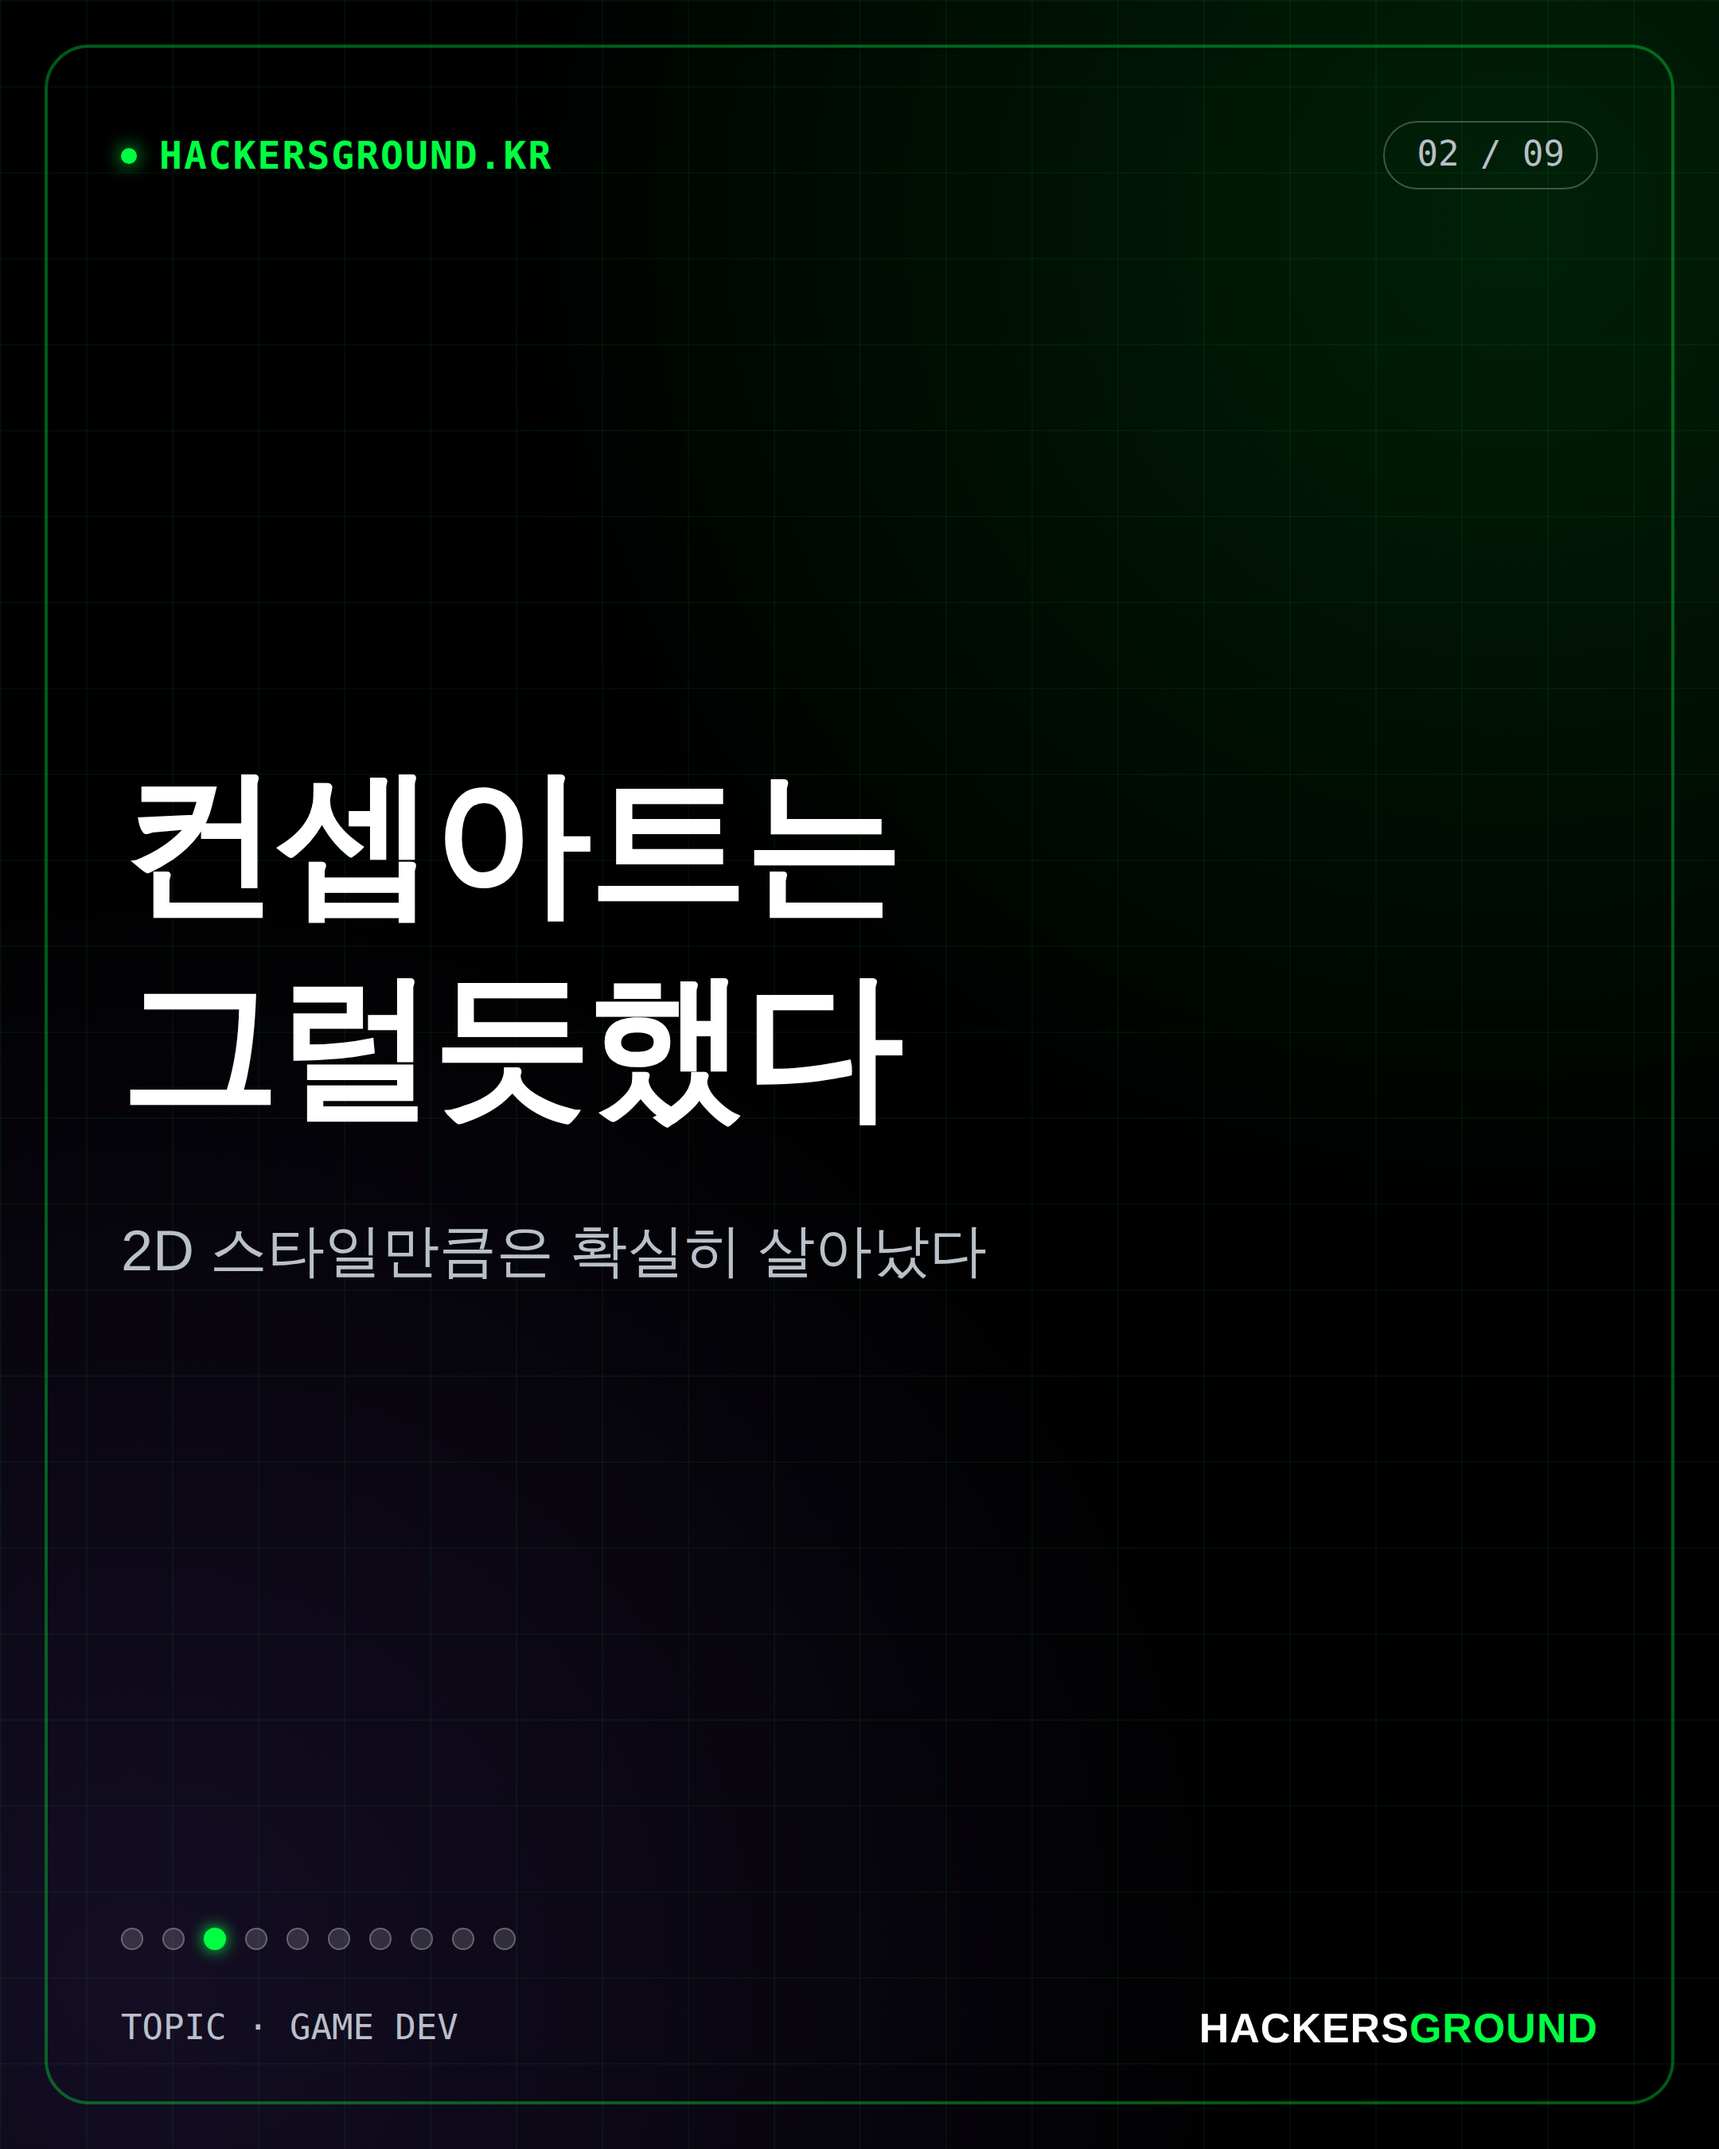
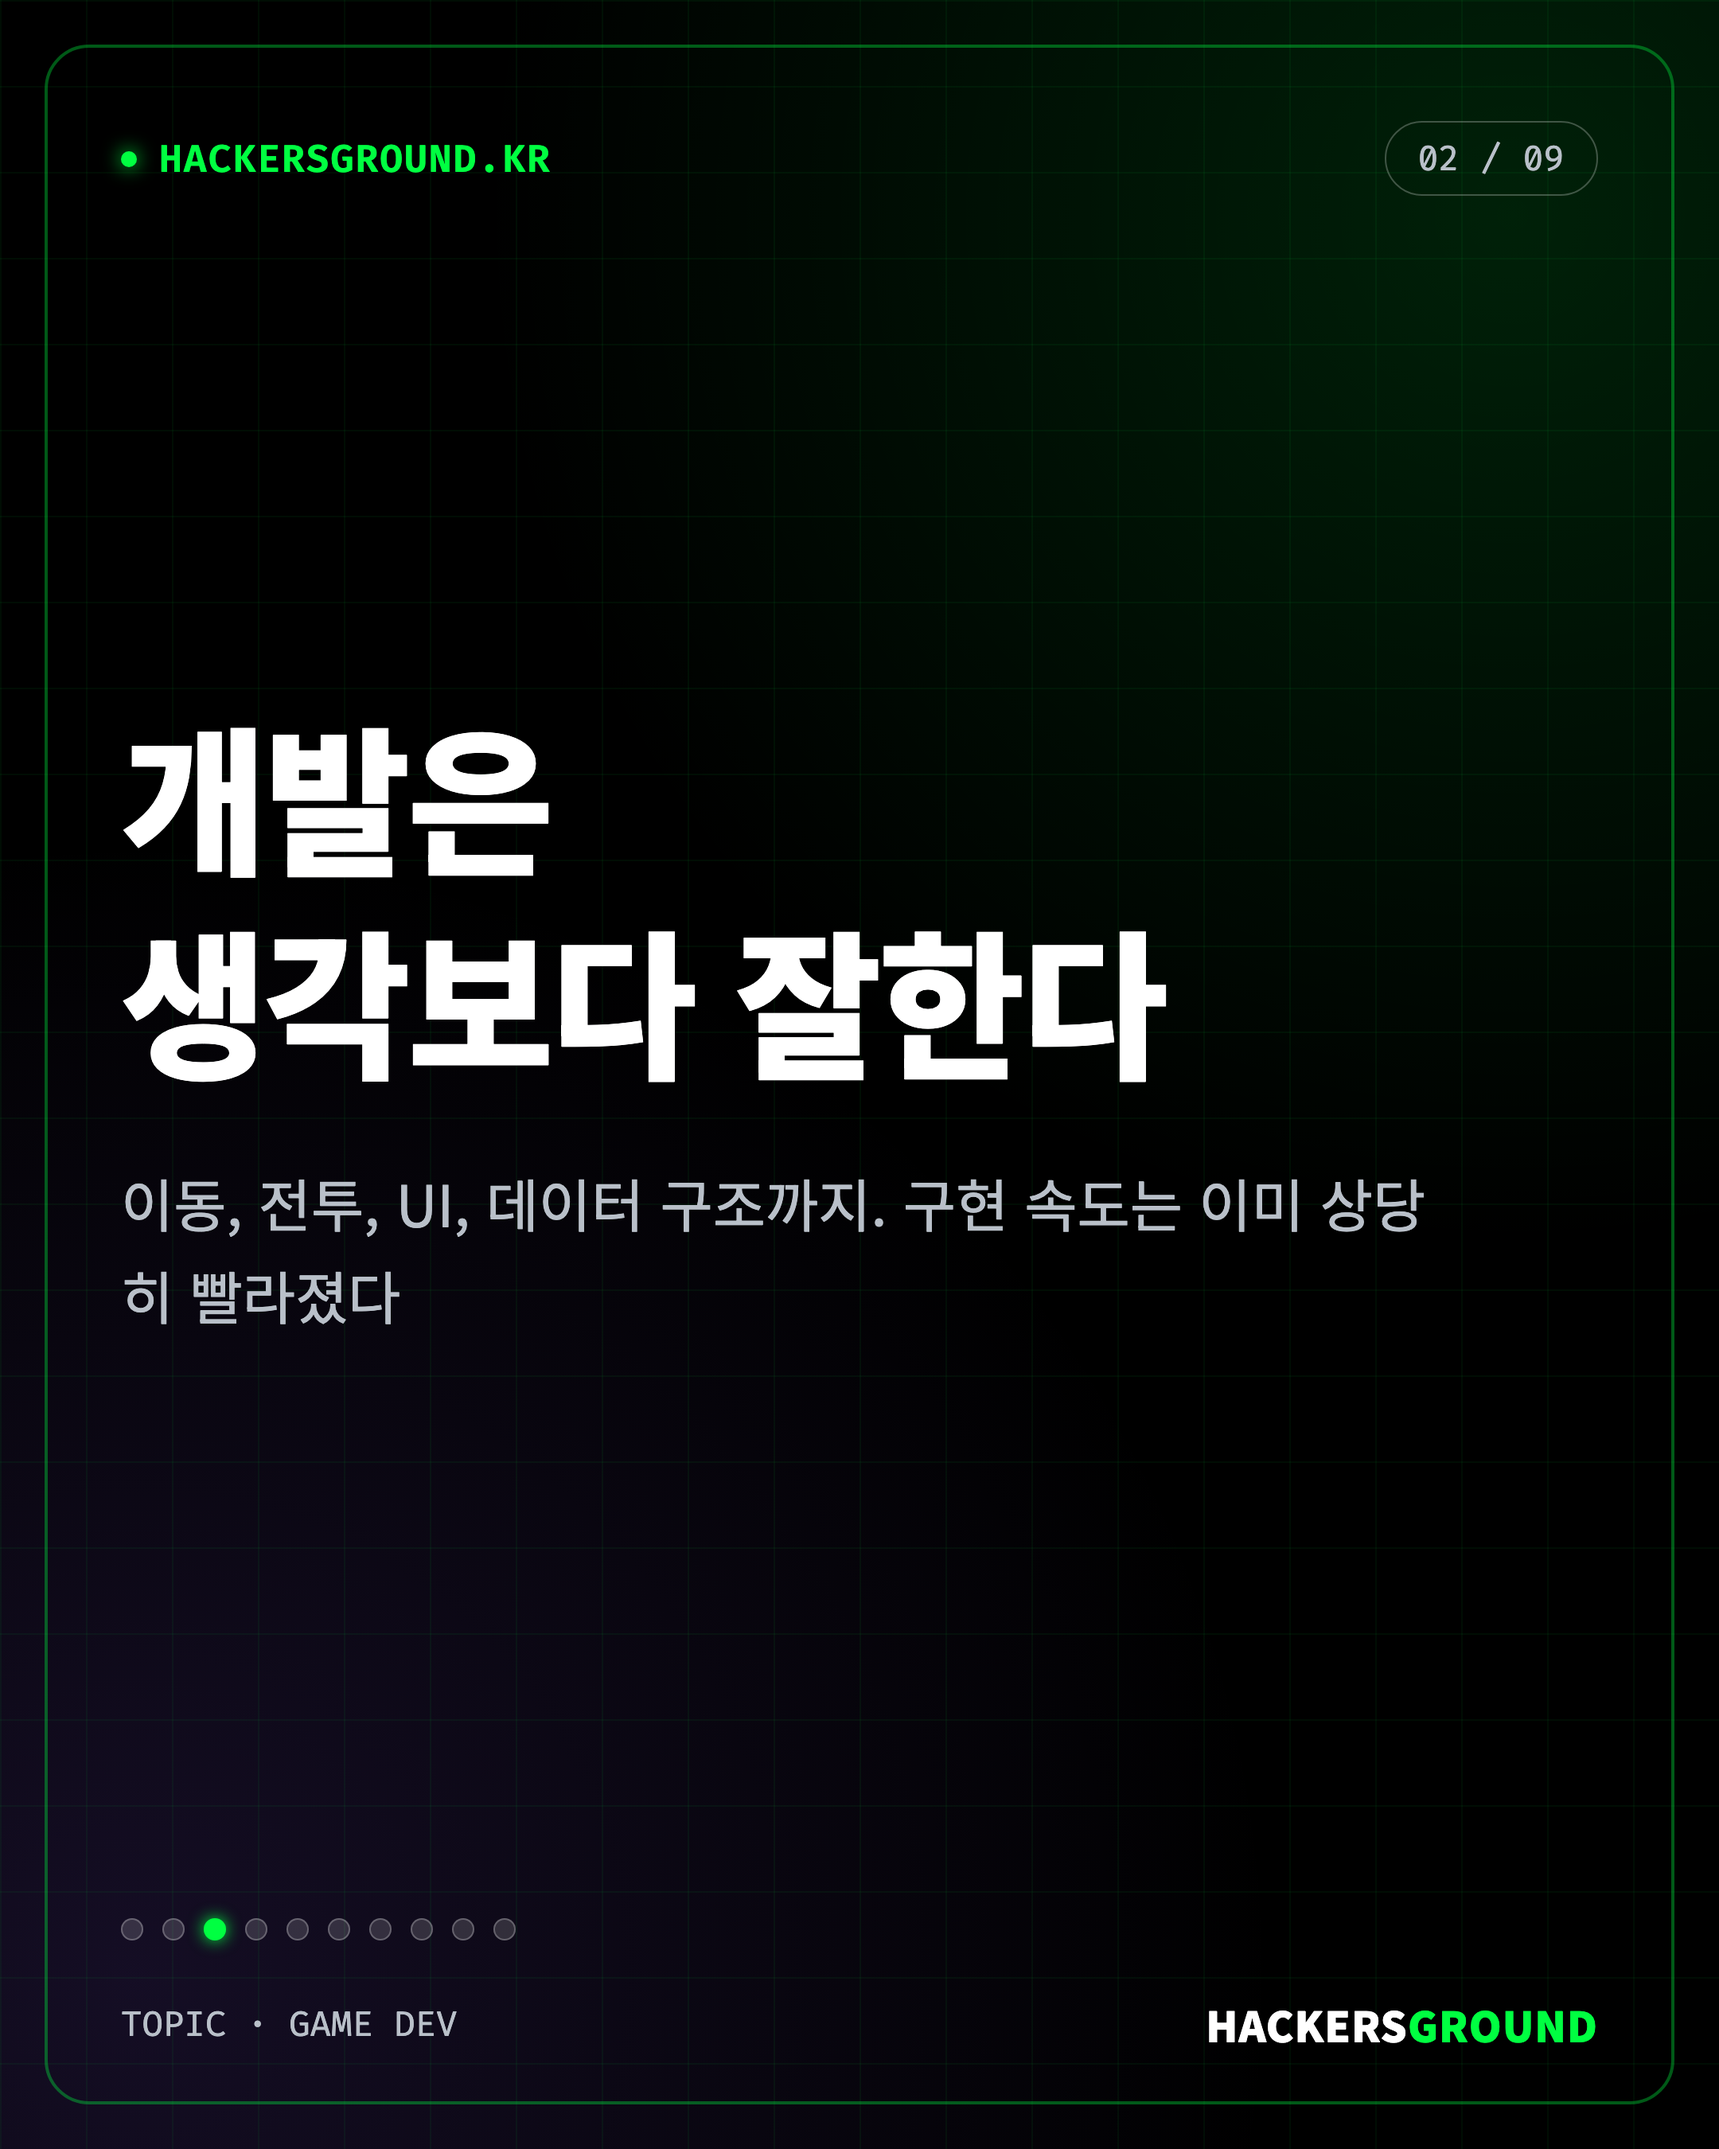
카드뉴스 26_8 A/B 수정안 반영 및 이미지 재생성
- Story A (이슈 #13): 슬로건/설명 전면 수정
  - AI 게임 개발 흐름으로 재구성 (만드는 건 된다→재밌게 만드는 게 어렵다)
- Story B (이슈 #12): 슬로건/설명 전면 수정
  - 고객 반응 기반 기술 선택 흐름으로 재구성 (포토부스 AI→고객이 기준이다)
- build_story.py, build_story_B.py beats 배열 동기화
- 이미지 재생성 (01~09 + cover)

diff --git a/cardnews/26_8_A/storyA_08.html b/cardnews/26_8_A/storyA_08.html
@@ -149,8 +149,8 @@
   </div>
 
   <div class="story-body">
-    <div class="slogan">경계는<br>리깅에 있다</div>
-    <div class="desc">AI와 사람의 선은 손끝에 그어졌다</div>
+    <div class="slogan">만드는 건 된다.<br>재밌게 만드는 게 어렵다</div>
+    <div class="desc">AI는 결과물을 빠르게 만든다. 하지만 무엇이 재미있는지는 아직 사람이 계속 판단해야 한다</div>
   </div>
   <div class="progress-row"><div class="progress-dot"></div><div class="progress-dot"></div><div class="progress-dot"></div><div class="progress-dot"></div><div class="progress-dot"></div><div class="progress-dot"></div><div class="progress-dot"></div><div class="progress-dot"></div><div class="progress-dot active"></div><div class="progress-dot"></div></div>
   <div class="footer">

diff --git a/cardnews/26_8_A/storyA_09.html b/cardnews/26_8_A/storyA_09.html
@@ -149,8 +149,8 @@
   </div>
 
   <div class="story-body">
-    <div class="slogan">맛은<br>사람이 완성한다</div>
-    <div class="desc">AI가 만들고, 사람이 마지막을 얹는다</div>
+    <div class="slogan">AI는 속도를 만들고,<br>사람은 게임을 만든다</div>
+    <div class="desc">구현과 제작은 AI에게 맡긴다. 방향과 감각, 그리고 마지막 완성도는 사람이 결정한다</div>
   </div>
   <div class="progress-row"><div class="progress-dot"></div><div class="progress-dot"></div><div class="progress-dot"></div><div class="progress-dot"></div><div class="progress-dot"></div><div class="progress-dot"></div><div class="progress-dot"></div><div class="progress-dot"></div><div class="progress-dot"></div><div class="progress-dot active"></div></div>
   <div class="footer">

diff --git a/cardnews/26_8_A/storyA_07.html b/cardnews/26_8_A/storyA_07.html
@@ -149,8 +149,8 @@
   </div>
 
   <div class="story-body">
-    <div class="slogan">다들<br>같은 자리였다</div>
-    <div class="desc">다른 게임사도 똑같이 거기서 멈췄다</div>
+    <div class="slogan">그럼 게임성은?</div>
+    <div class="desc">타격감, 템포, 난이도, 피드백. 작동하는 게임을 재미있는 게임으로 만드는 과정이 남았다</div>
   </div>
   <div class="progress-row"><div class="progress-dot"></div><div class="progress-dot"></div><div class="progress-dot"></div><div class="progress-dot"></div><div class="progress-dot"></div><div class="progress-dot"></div><div class="progress-dot"></div><div class="progress-dot active"></div><div class="progress-dot"></div><div class="progress-dot"></div></div>
   <div class="footer">

diff --git a/cardnews/26_8_A/storyA_05.html b/cardnews/26_8_A/storyA_05.html
@@ -149,8 +149,8 @@
   </div>
 
   <div class="story-body">
-    <div class="slogan">생각보다<br>정교했다</div>
-    <div class="desc">파츠 분리까지 예상 밖으로 정확했다</div>
+    <div class="slogan">보이는 건<br>빠르게 만든다</div>
+    <div class="desc">컨셉, 멀티뷰, 3D 모델링까지. 프로토타입을 만드는 속도는 압도적이었다</div>
   </div>
   <div class="progress-row"><div class="progress-dot"></div><div class="progress-dot"></div><div class="progress-dot"></div><div class="progress-dot"></div><div class="progress-dot"></div><div class="progress-dot active"></div><div class="progress-dot"></div><div class="progress-dot"></div><div class="progress-dot"></div><div class="progress-dot"></div></div>
   <div class="footer">

diff --git a/cardnews/26_8_A/storyA_01.html b/cardnews/26_8_A/storyA_01.html
@@ -149,8 +149,8 @@
   </div>
 
   <div class="story-body">
-    <div class="slogan">AI에게<br>맡겨봤다</div>
-    <div class="desc">게임 아트를 통째로 맡겨보기로 했다</div>
+    <div class="slogan">AI로 게임을<br>만들 수 있을까?</div>
+    <div class="desc">기획부터 개발, 아트까지. AI가 어디까지 할 수 있는지 직접 만들어봤다</div>
   </div>
   <div class="progress-row"><div class="progress-dot"></div><div class="progress-dot active"></div><div class="progress-dot"></div><div class="progress-dot"></div><div class="progress-dot"></div><div class="progress-dot"></div><div class="progress-dot"></div><div class="progress-dot"></div><div class="progress-dot"></div><div class="progress-dot"></div></div>
   <div class="footer">

diff --git a/cardnews/26_8_A/storyA_06.html b/cardnews/26_8_A/storyA_06.html
@@ -149,8 +149,8 @@
   </div>
 
   <div class="story-body">
-    <div class="slogan">근데 손끝에서<br>막혔다</div>
-    <div class="desc">손가락과 표정에서 AI가 멈췄다</div>
+    <div class="slogan">그럴듯함과<br>완성도는 달랐다</div>
+    <div class="desc">손가락, 표정, 리깅, 애니메이션. 플레이할수록 작은 어색함이 쌓였다</div>
   </div>
   <div class="progress-row"><div class="progress-dot"></div><div class="progress-dot"></div><div class="progress-dot"></div><div class="progress-dot"></div><div class="progress-dot"></div><div class="progress-dot"></div><div class="progress-dot active"></div><div class="progress-dot"></div><div class="progress-dot"></div><div class="progress-dot"></div></div>
   <div class="footer">

diff --git a/cardnews/26_8_A/storyA_02.html b/cardnews/26_8_A/storyA_02.html
@@ -149,8 +149,8 @@
   </div>
 
   <div class="story-body">
-    <div class="slogan">컨셉아트는<br>그럴듯했다</div>
-    <div class="desc">2D 스타일만큼은 확실히 살아났다</div>
+    <div class="slogan">개발은<br>생각보다 잘한다</div>
+    <div class="desc">이동, 전투, UI, 데이터 구조까지. 구현 속도는 이미 상당히 빨라졌다</div>
   </div>
   <div class="progress-row"><div class="progress-dot"></div><div class="progress-dot"></div><div class="progress-dot active"></div><div class="progress-dot"></div><div class="progress-dot"></div><div class="progress-dot"></div><div class="progress-dot"></div><div class="progress-dot"></div><div class="progress-dot"></div><div class="progress-dot"></div></div>
   <div class="footer">

diff --git a/cardnews/26_8_A/storyA_03.html b/cardnews/26_8_A/storyA_03.html
@@ -149,8 +149,8 @@
   </div>
 
   <div class="story-body">
-    <div class="slogan">딱, 거기까지였다</div>
-    <div class="desc">캐릭터 액션의 '맛'까지는 안 나왔다</div>
+    <div class="slogan">코드는<br>문제가 아니었다</div>
+    <div class="desc">명확하게 요구할수록 AI는 꽤 복잡한 게임 시스템도 구현해냈다</div>
   </div>
   <div class="progress-row"><div class="progress-dot"></div><div class="progress-dot"></div><div class="progress-dot"></div><div class="progress-dot active"></div><div class="progress-dot"></div><div class="progress-dot"></div><div class="progress-dot"></div><div class="progress-dot"></div><div class="progress-dot"></div><div class="progress-dot"></div></div>
   <div class="footer">

diff --git a/cardnews/26_8_B/storyB_07.html b/cardnews/26_8_B/storyB_07.html
@@ -149,8 +149,8 @@
   </div>
 
   <div class="story-body">
-    <div class="slogan">싸고 빠른 게<br>팔렸다</div>
-    <div class="desc">저가·저지연 전략이 매출로 이어졌다</div>
+    <div class="slogan">완벽하지 않아도</div>
+    <div class="desc">이미지의 완성도보다 예상 밖의 결과가 재미를 만들었다</div>
   </div>
   <div class="progress-row"><div class="progress-dot"></div><div class="progress-dot"></div><div class="progress-dot"></div><div class="progress-dot"></div><div class="progress-dot"></div><div class="progress-dot"></div><div class="progress-dot"></div><div class="progress-dot active"></div><div class="progress-dot"></div><div class="progress-dot"></div></div>
   <div class="footer">

diff --git a/cardnews/26_8_B/storyB_03.html b/cardnews/26_8_B/storyB_03.html
@@ -149,8 +149,8 @@
   </div>
 
   <div class="story-body">
-    <div class="slogan">적은 기다림이<br>전부였다</div>
-    <div class="desc">대기시간이 만족도를 가장 갉아먹었다</div>
+    <div class="slogan">결과가 늦게 나왔다</div>
+    <div class="desc">높은 완성도만큼 생성 시간도 길어졌다</div>
   </div>
   <div class="progress-row"><div class="progress-dot"></div><div class="progress-dot"></div><div class="progress-dot"></div><div class="progress-dot active"></div><div class="progress-dot"></div><div class="progress-dot"></div><div class="progress-dot"></div><div class="progress-dot"></div><div class="progress-dot"></div><div class="progress-dot"></div></div>
   <div class="footer">

diff --git a/cardnews/26_8_A/storyA_04.html b/cardnews/26_8_A/storyA_04.html
@@ -149,8 +149,8 @@
   </div>
 
   <div class="story-body">
-    <div class="slogan">그래서<br>3D로 틀었다</div>
-    <div class="desc">2D 한 장을 멀티뷰로, 다시 3D로</div>
+    <div class="slogan">아트는 어떨까?</div>
+    <div class="desc">컨셉아트부터 3D 모델까지 AI 파이프라인을 연결해봤다</div>
   </div>
   <div class="progress-row"><div class="progress-dot"></div><div class="progress-dot"></div><div class="progress-dot"></div><div class="progress-dot"></div><div class="progress-dot active"></div><div class="progress-dot"></div><div class="progress-dot"></div><div class="progress-dot"></div><div class="progress-dot"></div><div class="progress-dot"></div></div>
   <div class="footer">

diff --git a/cardnews/26_8_B/storyB_05.html b/cardnews/26_8_B/storyB_05.html
@@ -149,8 +149,8 @@
   </div>
 
   <div class="story-body">
-    <div class="slogan">아무도<br>안 따졌다</div>
-    <div class="desc">아무도 퀄리티를 지적하지 않았다</div>
+    <div class="slogan">오래된 모델을 골랐다</div>
+    <div class="desc">완성도는 낮추고 결과는 더 빠르게 보여줬다</div>
   </div>
   <div class="progress-row"><div class="progress-dot"></div><div class="progress-dot"></div><div class="progress-dot"></div><div class="progress-dot"></div><div class="progress-dot"></div><div class="progress-dot active"></div><div class="progress-dot"></div><div class="progress-dot"></div><div class="progress-dot"></div><div class="progress-dot"></div></div>
   <div class="footer">
